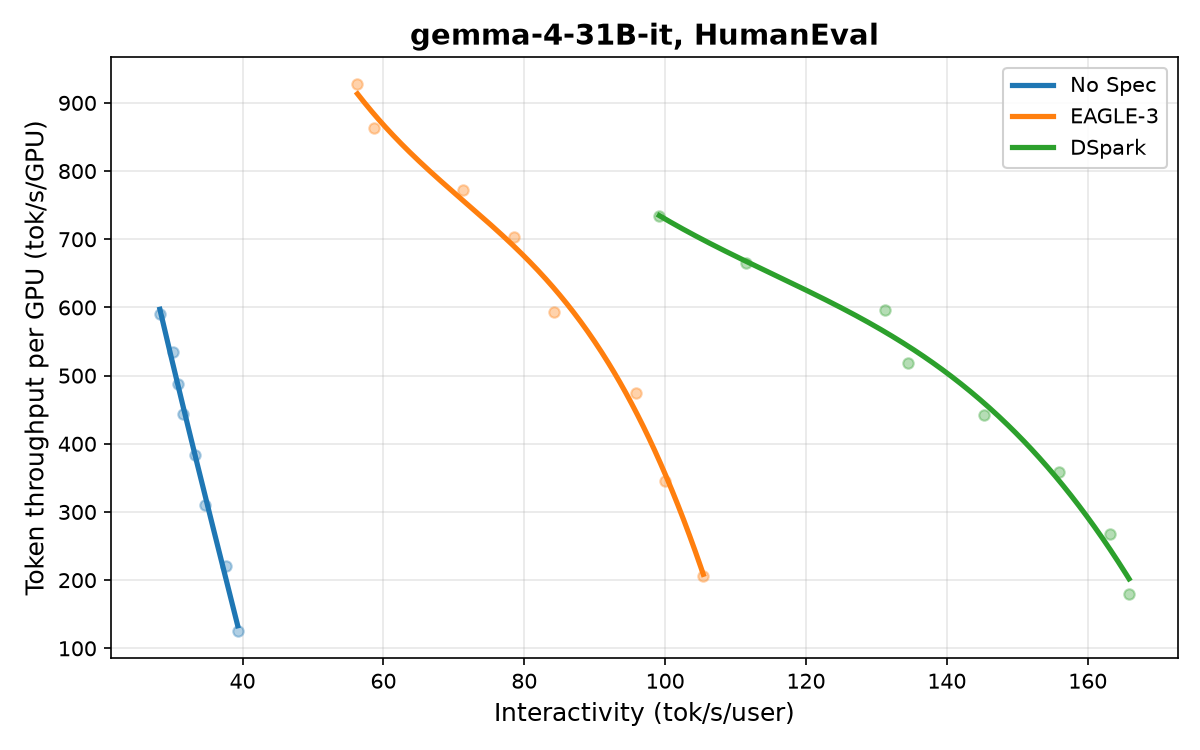
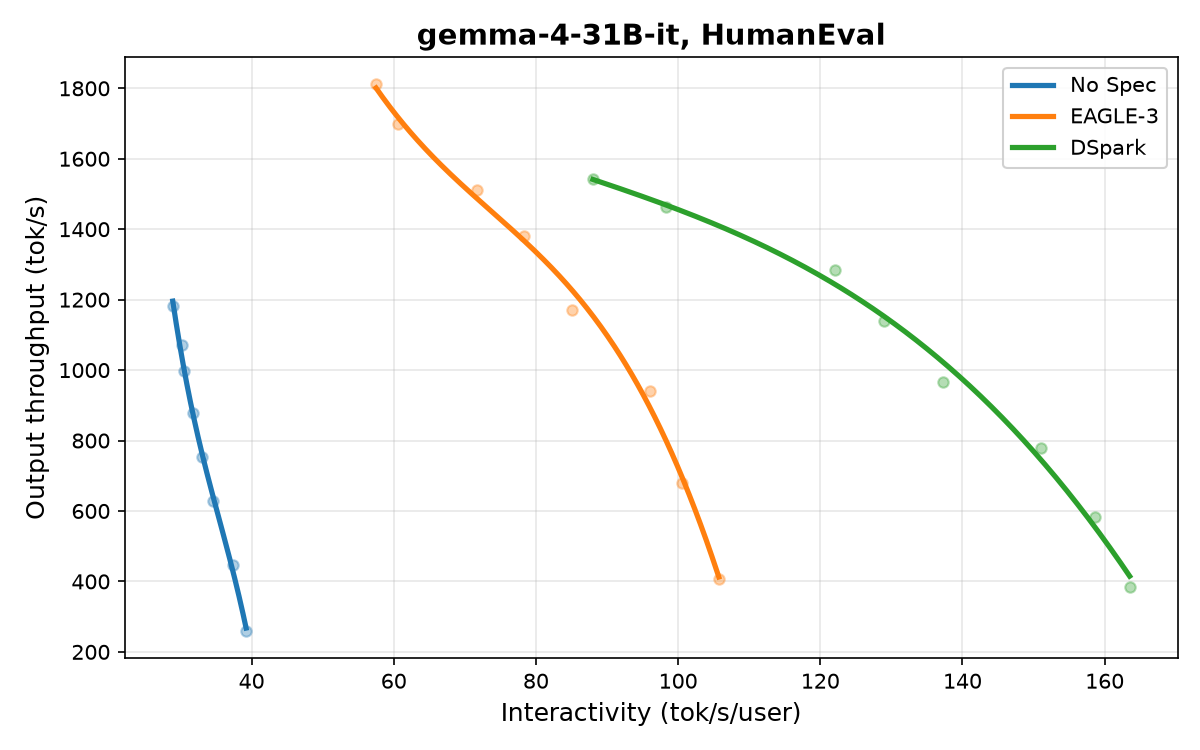
Blog fix: Speculators parallel drafting — typos, updated figures, and errata (#294)

diff --git a/_posts/2026-07-28-speculators-parallel-drafting.md b/_posts/2026-07-28-speculators-parallel-drafting.md
@@ -55,17 +55,17 @@ By flattening the drafting phase into a single forward pass, the latency of gene
 
 - **Capacity for Expressiveness:** Because the speculator model only runs once per block, developers can utilize larger, more robust, and more expressive draft architectures. These deeper speculator models capture more complex context and yield higher acceptance rates without introducing a sequential latency penalty.
 
-- **Simplified Parameter Tuning:** Decoupling drafting cost from block length removes he operational burden of hyper-tuning speculation parameters based on fluctuating server loads.
+- **Simplified Parameter Tuning:** Decoupling drafting cost from block length removes the operational burden of hyper-tuning speculation parameters based on fluctuating server loads.
 
 Parallel drafting as a concept has been explored before — [Medusa](https://arxiv.org/abs/2401.10774) and [PARD](https://arxiv.org/abs/2504.18583) are notable earlier examples. P-EAGLE, DFlash, and DSpark build on this foundation by combining parallel execution with deep verifier-state conditioning, the insight that made EAGLE so successful.
 
 # 4. Under the Hood: Inference & Training Architecture
 
-**P-EAGLE**, **DFlash**, and **DSpark** all build upon the verifier model's hidden states to generate draft tokens in parallel, but each takes a different path to get there. Figure 3 illustrates their architectures side-by-size.
+**P-EAGLE**, **DFlash**, and **DSpark** all build upon the verifier model's hidden states to generate draft tokens in parallel, but each takes a different path to get there. Figure 3 illustrates their architectures side-by-side.
 
 <p align="center">
 <img src="/assets/figures/2026-07-28-speculators-parallel-drafting/diagram.jpg" width="100%">
-<em>Figure 3. Comparison between P-EAGLE, DFlash and DSpark. P-EAGLE ingests hidden states from the verifier as part of the speculator model inputs. DFlash projects hidden states into KV-cache. DSpark buids on a DFlash backbone and adds sequential correction and confidence estimator.
+<em>Figure 3. Comparison between P-EAGLE, DFlash and DSpark. P-EAGLE ingests hidden states from the verifier as part of the speculator model inputs. DFlash projects hidden states into KV-cache. DSpark builds on a DFlash backbone and adds sequential correction and confidence estimator.
 </em>
 </p>
 
@@ -130,3 +130,7 @@ Parallel drafting is fully supported, open-source, and production-ready today. W
 - Pre-trained speculators: [Speculators Collection on HuggingFace](https://huggingface.co/collections/RedHatAI/speculator-models)  
 - Training guides: [Speculator tutorials](https://github.com/vllm-project/speculators/blob/main/docs/user_guide/tutorials/index.md)
 
+
+# Errata
+
+The plots in Figure 1 were updated on 7/29/26. The numbers in the original plots proved to be inconsistent with the reported benchmarking conditions due to an erroneous environment setup. However, the relative behavior between models was consistent and the conclusions in the blog are not changed.
